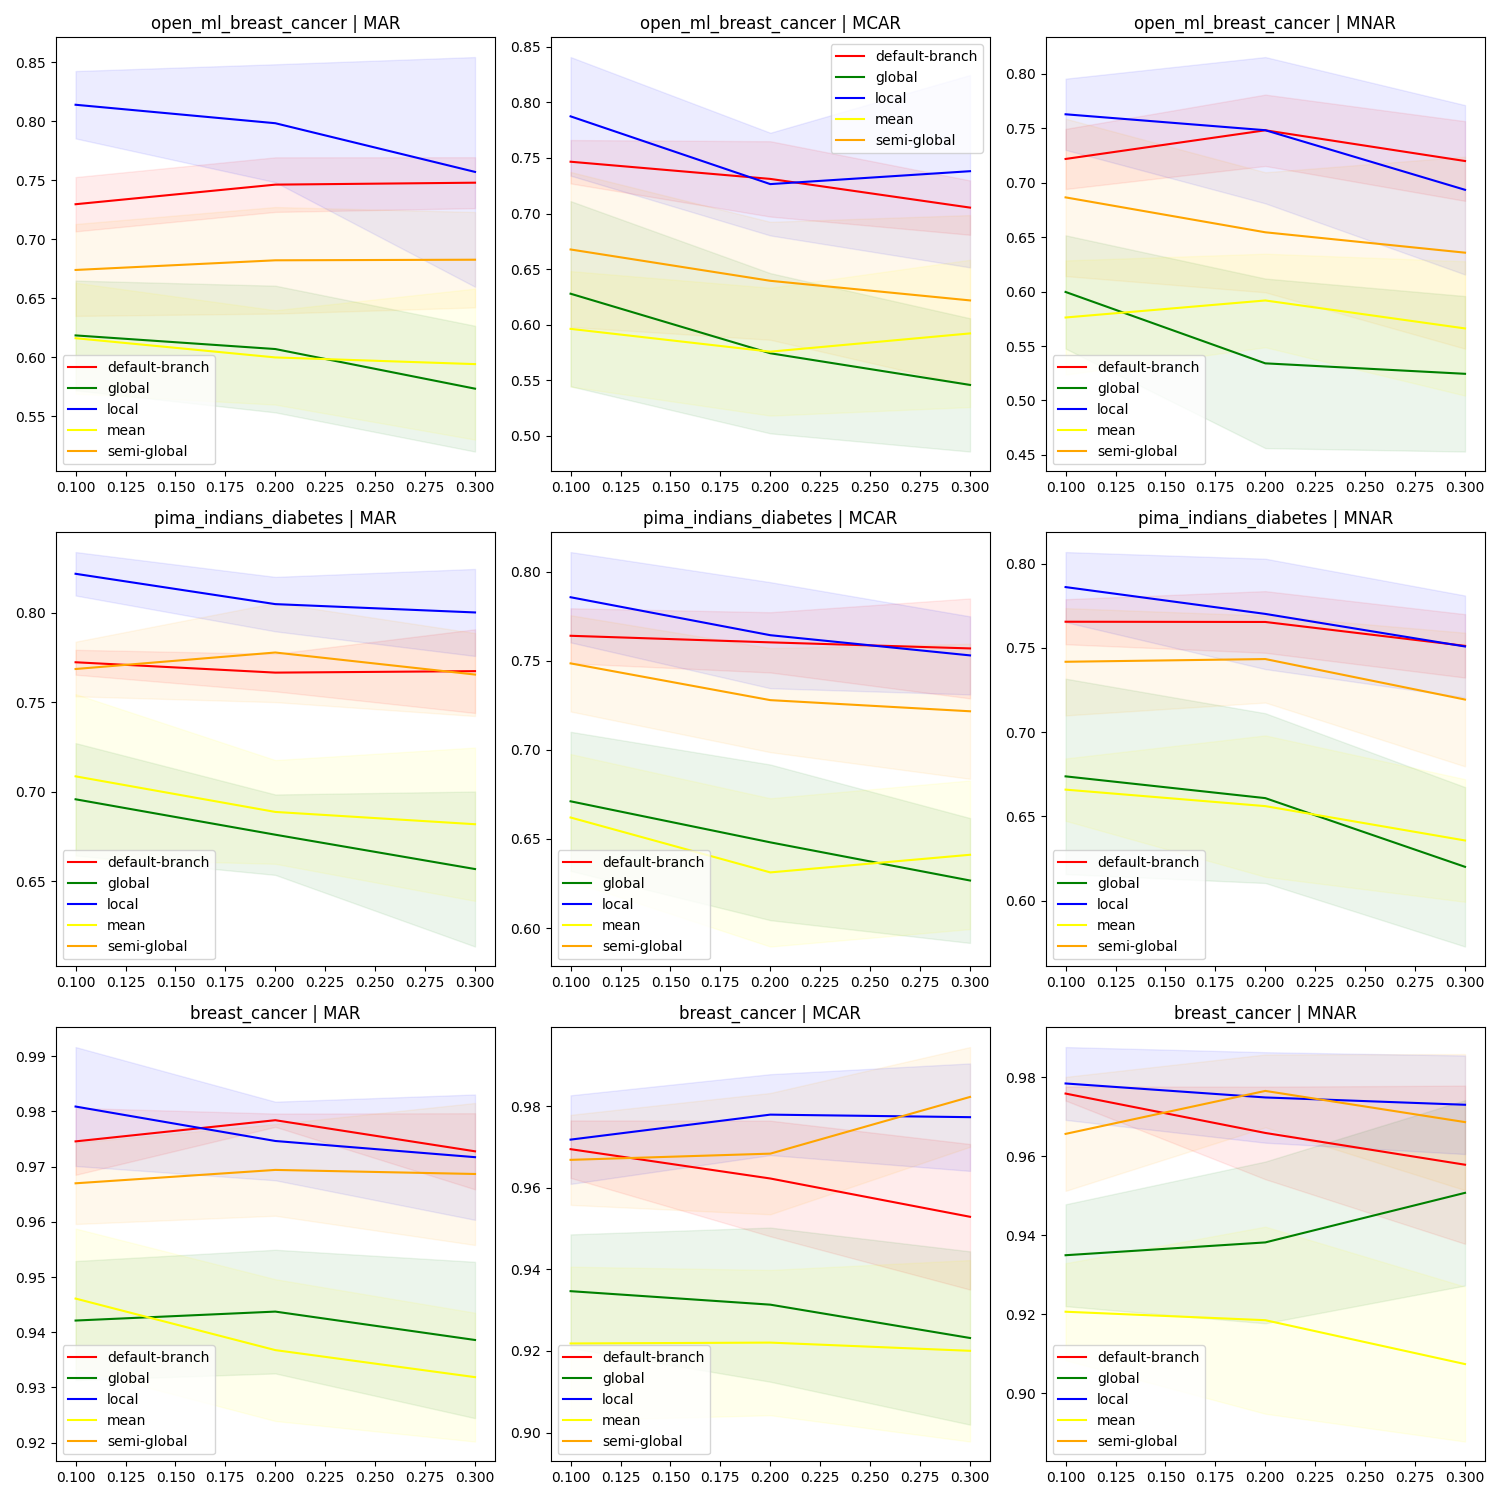
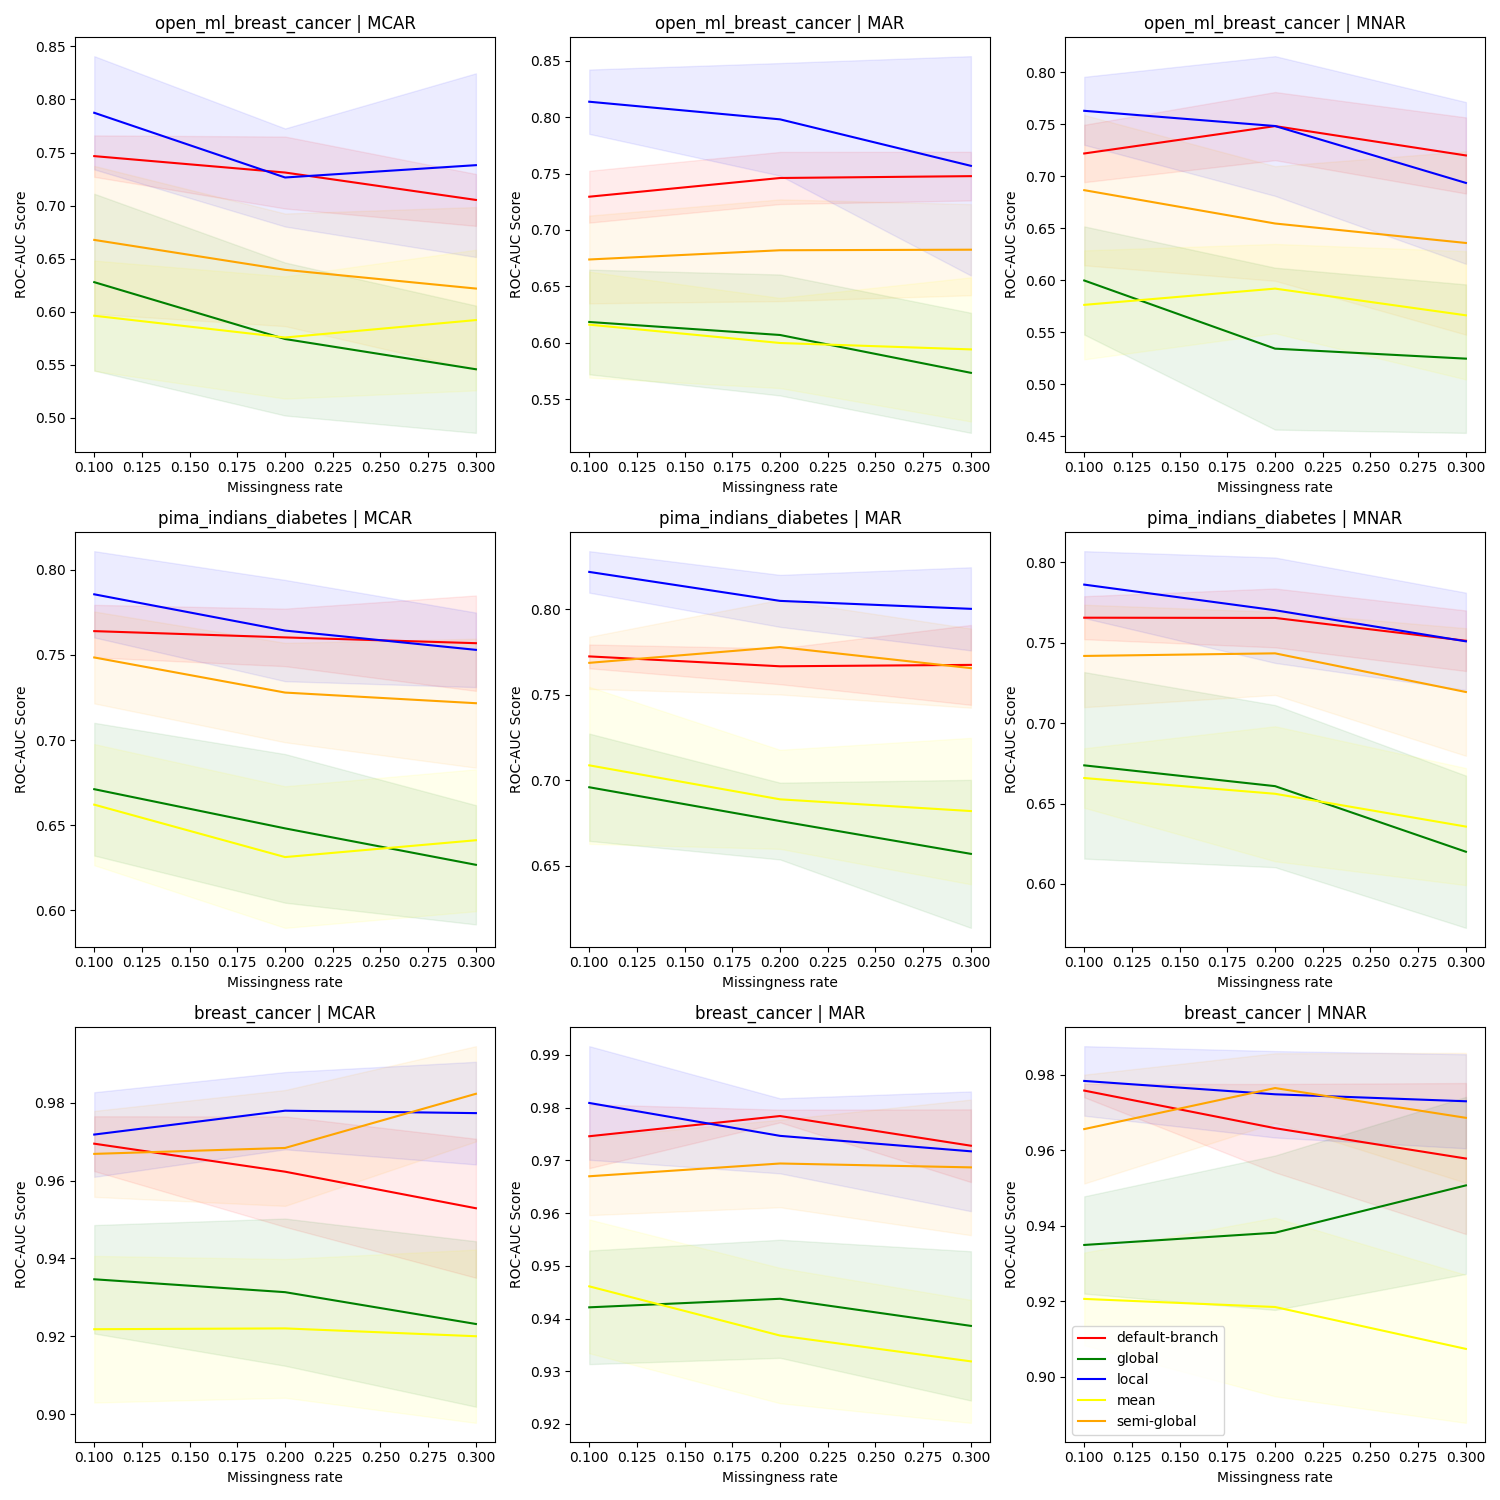
done with experiments. got all the ICU data we need did all the other plots shit for other datasets

diff --git a/ResultsAnalyze/full_analayzer.py b/ResultsAnalyze/full_analayzer.py
@@ -33,7 +33,6 @@ class PMisss(Enum):
 
 
 class PreformanceMetric(Enum):
-    ROCAUCScore = 'ROC-AUC Score'
     precision = "precision"
     recall = "recall"
     sensitivity = "sensitivity"
@@ -89,6 +88,8 @@ def create_line_for_performance_metric(preformanceMetric: PreformanceMetric):
                                             alpha=0.075)
             # Set subplot title
             axs[axs_index].set_title(f"{dataset.value} | {mecha.value}")
+            axs[axs_index].set_xlabel("Missingness rate")
+            axs[axs_index].set_ylabel(f"{preformanceMetric.value} Score")
             if line == len(Datasets) - 1 and i == len(Mechas) - 1:
                 axs[axs_index].legend()
             axs_index += 1
@@ -96,11 +97,11 @@ def create_line_for_performance_metric(preformanceMetric: PreformanceMetric):
     plt.tight_layout()
 
     # Save the single plot with 9 subplots
-    plt.savefig(f'CombinedPlots/combined_plots_{preformanceMetric.value}.png')
+    # plt.savefig(f'CombinedPlots/combined_plots_{preformanceMetric.value}.png')
 
     # Show the plot
     plt.show()
 
 
-for preformanceMetric in [PreformanceMetric.ROCAUCScore]:
+for preformanceMetric in PreformanceMetric:
     create_line_for_performance_metric(preformanceMetric)

diff --git a/ResultsAnalyze/anaylzer.py b/ResultsAnalyze/anaylzer.py
@@ -21,8 +21,8 @@ class Datasets(Enum):
 
 
 class Mechas(Enum):
-    MAR = "MAR"
     MCAR = "MCAR"
+    MAR = "MAR"
     MNAR = "MNAR"
 
 
@@ -44,6 +44,7 @@ std_auc = grouped_data['ROC-AUC Score'].std()
 fig, axes = plt.subplots(nrows=3, ncols=3, figsize=(15, 15))
 
 axs = axes.flatten()
+
 axs_index = 0
 
 colors_to_impute = {
@@ -71,10 +72,15 @@ for line, dataset in enumerate(Datasets):
                                         auc_per_missingness[column].values - std_per_missingness[column].values,
                                         color=colors_to_impute[column],
                                         alpha=0.075)
+
         # Set subplot title
         axs[axs_index].set_title(f"{dataset.value} | {mecha.value}")
-        axs[axs_index].legend()
+        axs[axs_index].set_xlabel("Missingness rate")
+        axs[axs_index].set_ylabel("ROC-AUC Score")
+        if axs_index == 8:
+            axs[axs_index].legend()
         axs_index += 1
+
         # Adjust layout
 plt.tight_layout()
 
